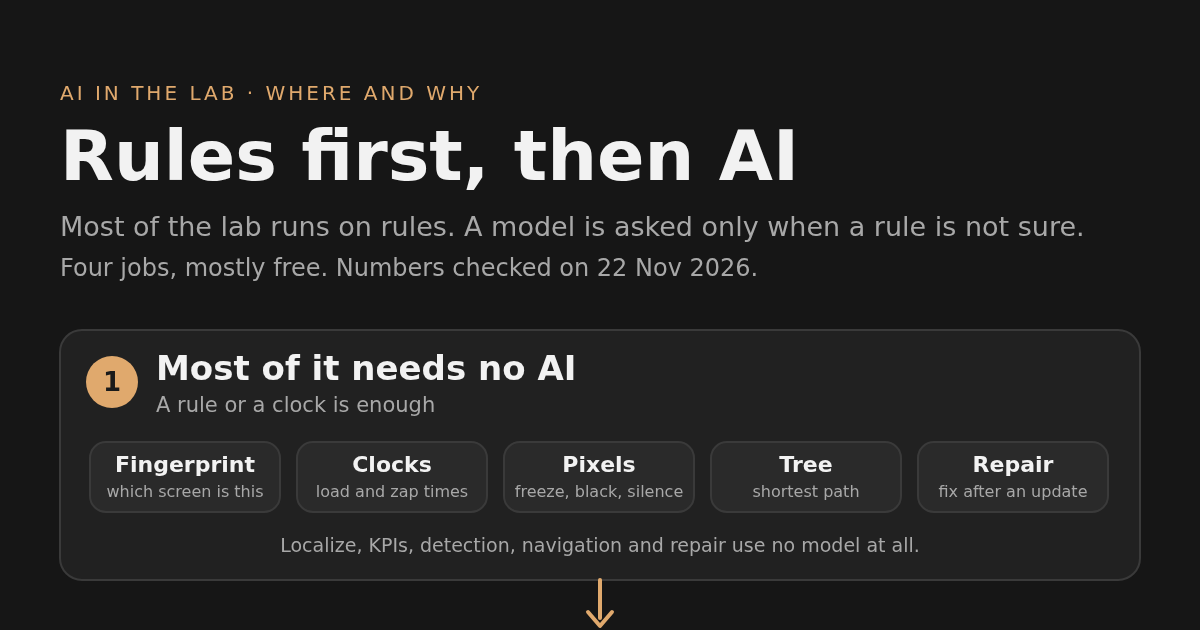
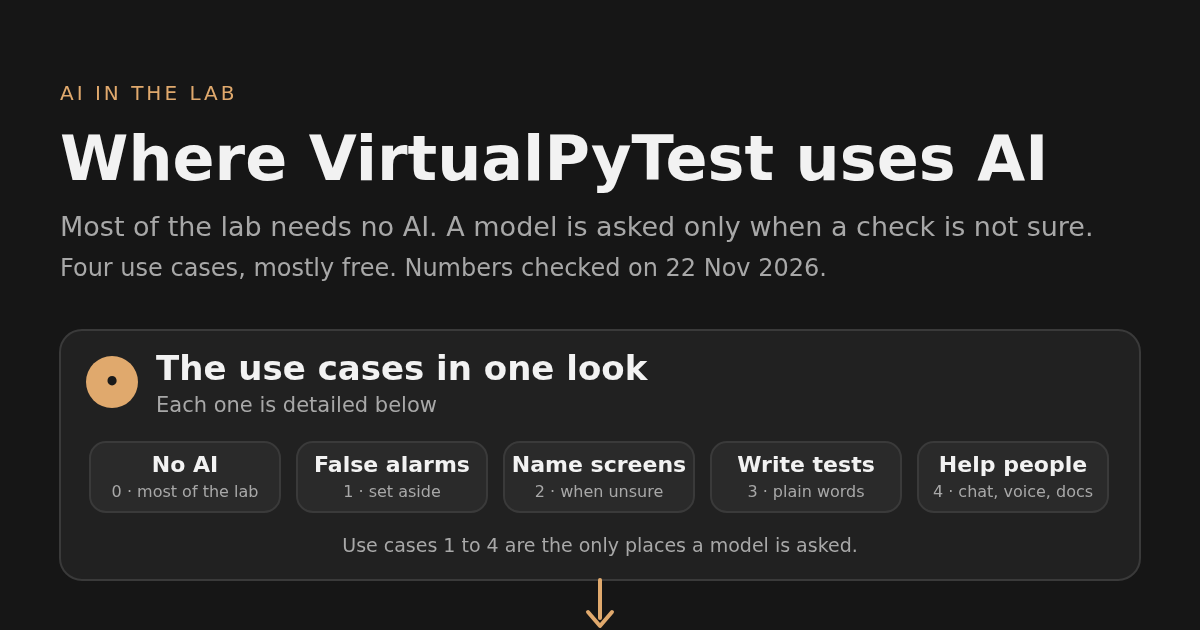
docs: AI poster renamed 'Where VirtualPyTest uses AI', jobs become use cases, overview card first

diff --git a/docs/index.html b/docs/index.html
@@ -118,7 +118,7 @@ var POSTERS = [
   {id: 'what-is', title: 'What is VirtualPyTest?', topic: '0 · Infra architecture', learn: '0.1', src: 'img/what-is-virtualpytest.svg', alt: 'One vertical image: devices, control, the navigation map, screen checks, runs and KPIs, 24/7 monitoring, and the AI on top.'},
   {id: 'services', title: 'Services are background jobs', topic: '0 · Infra architecture', learn: '0.4', src: 'img/services.svg', alt: 'One vertical image: the backend server services, the device host services grouped by job (core, watch, drive, where used), and how every service shows on the Status page.'},
   {id: 'profiles', title: 'A profile is a set of services', topic: '0 · Infra architecture', learn: '0.3', src: 'img/profiles.svg', alt: 'One vertical image: the three host shapes, a profile for each device, a table of what each profile runs, one setting per device, a real case of paying for what you run, and what to keep.'},
-  {id: 'ai-use-cases', title: 'Rules first, then AI', topic: '7 · AI in the lab', learn: '7.1', src: 'img/ai-use-cases.svg', alt: 'One vertical image: most of the lab needs no AI; AI is asked in four jobs (false alarms, naming screens, writing tests, helping people); where it runs; what it costs; and the newest use, freeze alerts.'},
+  {id: 'ai-use-cases', title: 'Where VirtualPyTest uses AI', topic: '7 · AI in the lab', learn: '7.0', src: 'img/ai-use-cases.svg', alt: 'One vertical image: most of the lab needs no AI; AI is asked in four use cases (false alarms, naming screens, writing tests, helping people); where it runs; what it costs; and the newest use, freeze alerts.'},
   {id: 'freeze-discard', title: 'Freeze: menu or stuck video?', topic: '7 · AI in the lab', learn: '7.5/deep', src: 'img/freeze-discard.svg', alt: 'One vertical image: a freeze alert, the words read on two frames, pieces and weights, the safety band (0.1 and 0.9), three real examples with the real model score, the weather-cast case that goes to the bigger check, and the nightly learning.'}
 ];
 var list = document.getElementById('pickl'), pb = document.getElementById('pickb'), img = document.getElementById('img');

diff --git a/docs/view/ai-use-cases/index.html b/docs/view/ai-use-cases/index.html
@@ -1,14 +1,14 @@
 <!doctype html>
 <html lang="en"><head><meta charset="utf-8"><meta name="viewport" content="width=device-width, initial-scale=1">
-<title>Rules first, then AI · VirtualPyTest</title>
-<meta name="description" content="Where VirtualPyTest uses AI and why: four jobs, mostly free, rules first.">
+<title>Where VirtualPyTest uses AI · VirtualPyTest</title>
+<meta name="description" content="Where VirtualPyTest uses AI: four use cases, mostly free.">
 <meta property="og:type" content="website"><meta property="og:site_name" content="VirtualPyTest">
-<meta property="og:title" content="Rules first, then AI"><meta property="og:description" content="Where VirtualPyTest uses AI and why: four jobs, mostly free, rules first.">
+<meta property="og:title" content="Where VirtualPyTest uses AI"><meta property="og:description" content="Where VirtualPyTest uses AI: four use cases, mostly free.">
 <meta property="og:url" content="https://virtualpytest.com/docs/view/ai-use-cases/">
 <meta property="og:image" content="https://virtualpytest.com/docs/img/ai-use-cases-share.png"><meta property="og:image:width" content="1200"><meta property="og:image:height" content="630">
-<meta name="twitter:card" content="summary_large_image"><meta name="twitter:title" content="Rules first, then AI"><meta name="twitter:description" content="Where VirtualPyTest uses AI and why: four jobs, mostly free, rules first.">
+<meta name="twitter:card" content="summary_large_image"><meta name="twitter:title" content="Where VirtualPyTest uses AI"><meta name="twitter:description" content="Where VirtualPyTest uses AI: four use cases, mostly free.">
 <meta name="twitter:image" content="https://virtualpytest.com/docs/img/ai-use-cases-share.png">
 <link rel="canonical" href="https://virtualpytest.com/docs/view/ai-use-cases/">
 <meta http-equiv="refresh" content="0; url=../#ai-use-cases">
 <script>location.replace('../#ai-use-cases');</script>
-</head><body><p><a href="../#ai-use-cases">Rules first, then AI</a></p></body></html>
+</head><body><p><a href="../#ai-use-cases">Where VirtualPyTest uses AI</a></p></body></html>

diff --git a/docs/view/index.html b/docs/view/index.html
@@ -38,7 +38,7 @@ var P = {
   'what-is': {title: 'What is VirtualPyTest?', src: '../img/what-is-virtualpytest.svg', alt: 'One vertical image: devices, control, the navigation map, screen checks, runs and KPIs, 24/7 monitoring, and the AI on top.'},
   'profiles': {title: 'A profile is a set of services', src: '../img/profiles.svg', alt: 'One vertical image: the three host shapes, a profile for each device, a table of what each profile runs, one setting per device, a real case of paying for what you run, and what to keep.'},
   'services': {title: 'Services are background jobs', src: '../img/services.svg', alt: 'One vertical image: the backend server services, the device host services grouped by job (core, watch, drive, where used), and how every service shows on the Status page.'},
-  'ai-use-cases': {title: 'Rules first, then AI', src: '../img/ai-use-cases.svg', alt: 'One vertical image: most of the lab needs no AI; AI is asked in four jobs (false alarms, naming screens, writing tests, helping people); where it runs; what it costs; and the newest use, freeze alerts.'},
+  'ai-use-cases': {title: 'Where VirtualPyTest uses AI', src: '../img/ai-use-cases.svg', alt: 'One vertical image: most of the lab needs no AI; AI is asked in four use cases (false alarms, naming screens, writing tests, helping people); where it runs; what it costs; and the newest use, freeze alerts.'},
   'freeze-discard': {title: 'Freeze: menu or stuck video?', src: '../img/freeze-discard.svg', alt: 'One vertical image: a freeze alert, the words read on two frames, pieces and weights, the safety band, the weather-cast case that goes to the bigger check, and the nightly learning.'}
 };
 var id = location.hash.slice(1); var p = P[id] || P['what-is']; id = P[id] ? id : 'what-is';

diff --git a/tools/make_docs_poster_ai.py b/tools/make_docs_poster_ai.py
@@ -1,6 +1,6 @@
 #!/usr/bin/env python3
 """Writes docs/img/ai-use-cases.svg (Docs poster: where VirtualPyTest uses AI and why; source: docs/AI-USE-CASES.md of the product repo, numbers checked 2026-11-22). Run from the repo root."""
-W, H = 1200, 3010
+W, H = 1200, 3320
 BG, PANEL, LINE, TXT, MUT, GOLD = "#161616", "#212121", "#3a3a3a", "#f2f2f2", "#a8a8a8", "#e0a96d"
 F = "Geist,Inter,system-ui,-apple-system,Segoe UI,Helvetica,Arial,sans-serif"
 o = []
@@ -24,12 +24,12 @@ def layer(y, n, title, sub, h):
     t(156, y + 82, sub, 21, MUT, 400)
 
 GREEN = "#4ade80"
-o.append(f'<svg xmlns="http://www.w3.org/2000/svg" viewBox="0 0 {W} {H}" width="{W}" height="{H}" role="img" aria-labelledby="ti"><title id="ti">Rules first, then AI: where VirtualPyTest uses AI and why, in one image</title>')
+o.append(f'<svg xmlns="http://www.w3.org/2000/svg" viewBox="0 0 {W} {H}" width="{W}" height="{H}" role="img" aria-labelledby="ti"><title id="ti">Where VirtualPyTest uses AI, in one image</title>')
 o.append(f'<rect width="{W}" height="{H}" fill="{BG}"/>')
-t(60, 100, "AI IN THE LAB · WHERE AND WHY", 20, GOLD, 500, sp=3)
-t(60, 180, "Rules first, then AI", 70, TXT, 700)
-t(60, 236, "Most of the lab runs on rules. A model is asked only when a rule is not sure.", 27, MUT, 400)
-t(60, 276, "Four jobs, mostly free. Numbers checked on 22 Nov 2026.", 24, MUT, 400)
+t(60, 100, "AI IN THE LAB", 20, GOLD, 500, sp=3)
+t(60, 180, "Where VirtualPyTest uses AI", 62, TXT, 700)
+t(60, 236, "Most of the lab needs no AI. A model is asked only when a check is not sure.", 27, MUT, 400)
+t(60, 276, "Four use cases, mostly free. Numbers checked on 22 Nov 2026.", 24, MUT, 400)
 
 def panel(y, n, title, sub, items, note, w=240, gap=18, last=False):
     layer(y, n, title, sub, 250)
@@ -38,34 +38,37 @@ def panel(y, n, title, sub, items, note, w=240, gap=18, last=False):
     if not last:
         arrow(600, y + 250, y + 300)
 
-panel(330, "1", "Most of it needs no AI", "A rule or a clock is enough",
+panel(330, "•", "The use cases in one look", "Each one is detailed below",
+      [("No AI", "0 · most of the lab"), ("False alarms", "1 · set aside"), ("Name screens", "2 · when unsure"), ("Write tests", "3 · plain words"), ("Help people", "4 · chat, voice, docs")],
+      "Use cases 1 to 4 are the only places a model is asked.", w=190, gap=17)
+panel(640, "0", "Most of it needs no AI", "A fingerprint or a clock is enough",
       [("Fingerprint", "which screen is this"), ("Clocks", "load and zap times"), ("Pixels", "freeze, black, silence"), ("Tree", "shortest path"), ("Repair", "fix after an update")],
       "Localize, KPIs, detection, navigation and repair use no model at all.", w=190, gap=17)
-panel(640, "2", "Job 1: throw away false alarms", "A person only looks at real problems",
+panel(950, "1", "Use case 1: throw away false alarms", "A person only looks at real problems",
       [("Alert triage", "real or noise"), ("Script analysis", "bug or lab noise"), ("Freeze words", "menu or stuck video"), ("Screen memory", "judged harmless before")],
       "A frozen menu, a sleeping phone, a network blink: set aside.")
-panel(950, "3", "Job 2: name what is on screen", "When the fingerprint is not sure",
+panel(1260, "2", "Use case 2: name what is on screen", "When the fingerprint is not sure",
       [("Second opinion", "a doubtful match"), ("Channel banner", "read after a zap"), ("Unknown screens", "named in the background"), ("Reading words", "on the host, no cloud")],
       "The second opinion on a match is mostly logged: it changes nothing yet.")
-panel(1260, "4", "Job 3: write tests and scripts", "From plain words",
+panel(1570, "3", "Use case 3: write tests and scripts", "From plain words",
       [("Forge", "scripts, tests, trees"), ("Atlas", "tests in the chat"), ("Test plan", "steps from a goal"), ("Explore", "reads a new app")],
       "A person reviews what is written.")
-panel(1570, "5", "Job 4: help people", "Questions about the tool, a screen or a run",
+panel(1880, "4", "Use case 4: help people", "Questions about the tool, a screen or a run",
       [("Atlas chat", "ask, drive, run"), ("Voice", "spoken commands"), ("Docs Ask", "the public question box"), ("Fleet report", "a daily summary")],
       "Plus showcases: game bots and the drone prove the same look-and-press loop.")
-panel(1880, "6", "Where it runs", "Three places",
-      [("Cloud models", "one per job, plus a fallback"), ("The host CPU", "speech, OCR, titles"), ("Your own PC", "low-priority jobs")],
+panel(2190, "•", "Where it runs", "Three places",
+      [("Cloud models", "one per use case, plus a fallback"), ("The host CPU", "speech, OCR, titles"), ("Your own PC", "low-priority use cases")],
       "Every cloud call is logged and shown on the AI usage page.", w=320, gap=30)
-panel(2190, "7", "What it costs", "The whole lab, the last 30 days",
-      [("16.72 USD", "all AI calls"), ("0 USD", "flat plan and host models"), ("Paid calls", "fallback and strong jobs"), ("Logged answers", "are only measured")],
-      "Cheap on purpose: rules first, small models next, strong models last.")
-panel(2500, "8", "The newest: freeze alerts", "Menu or stuck video, without a language model",
+panel(2500, "•", "What it costs", "The whole lab, the last 30 days",
+      [("16.72 USD", "all AI calls"), ("0 USD", "flat plan and host models"), ("Paid calls", "fallback and hard cases"), ("Logged answers", "are only measured")],
+      "Cheap on purpose: no AI first, small models next, strong models last.")
+panel(2810, "•", "The newest: freeze alerts", "Menu or stuck video, without a language model",
       [("9,861", "alerts avoided in 7 days"), ("1.7 s", "the paid check today"), ("0.25 ms", "the word model, measured"), ("Learns", "every night, never alone")],
       "See the poster Freeze: menu or stuck video? The word model is measured, not wired yet.", last=True)
 
-box(60, 2810, 1080, 120, "#2a2418", GOLD, 22, 2)
-t(600, 2860, "Rules first. AI where a rule cannot decide.", 32, GOLD, 700, "middle")
-t(600, 2900, "Every answer is logged, so you can measure what AI really adds.", 21, TXT, 400, "middle")
-t(600, 2976, "virtualpytest.com · open source, AGPLv3", 20, MUT, 400, "middle")
+box(60, 3120, 1080, 120, "#2a2418", GOLD, 22, 2)
+t(600, 3170, "AI only where nothing simpler can decide.", 32, GOLD, 700, "middle")
+t(600, 3210, "Every answer is logged, so you can measure what AI really adds.", 21, TXT, 400, "middle")
+t(600, 3286, "virtualpytest.com · open source, AGPLv3", 20, MUT, 400, "middle")
 o.append('</svg>')
 open("docs/img/ai-use-cases.svg", "w").write("\n".join(o))

diff --git a/tools/make_docs_share.py b/tools/make_docs_share.py
@@ -15,7 +15,7 @@ POSTERS = [
     ("what-is", "What is VirtualPyTest?", "img/what-is-virtualpytest.svg", "Any device with a screen, tested and monitored 24/7 by AI, in one image."),
     ("profiles", "A profile is a set of services", "img/profiles.svg", "What a host runs for each device: three host shapes, a profile per device and a table of what each profile switches on."),
     ("services", "Services are background jobs", "img/services.svg", "Every VirtualPyTest service, grouped in server and host, and how each one shows on the Status page."),
-    ("ai-use-cases", "Rules first, then AI", "img/ai-use-cases.svg", "Where VirtualPyTest uses AI and why: four jobs, mostly free, rules first."),
+    ("ai-use-cases", "Where VirtualPyTest uses AI", "img/ai-use-cases.svg", "Where VirtualPyTest uses AI: four use cases, mostly free."),
     ("freeze-discard", "Freeze: menu or stuck video?", "img/freeze-discard.svg", "How a freeze alert is decided in 0.25 ms: read the words, weigh the pieces, decide with a safety band."),
 ]
 PAGE = """<!doctype html>
